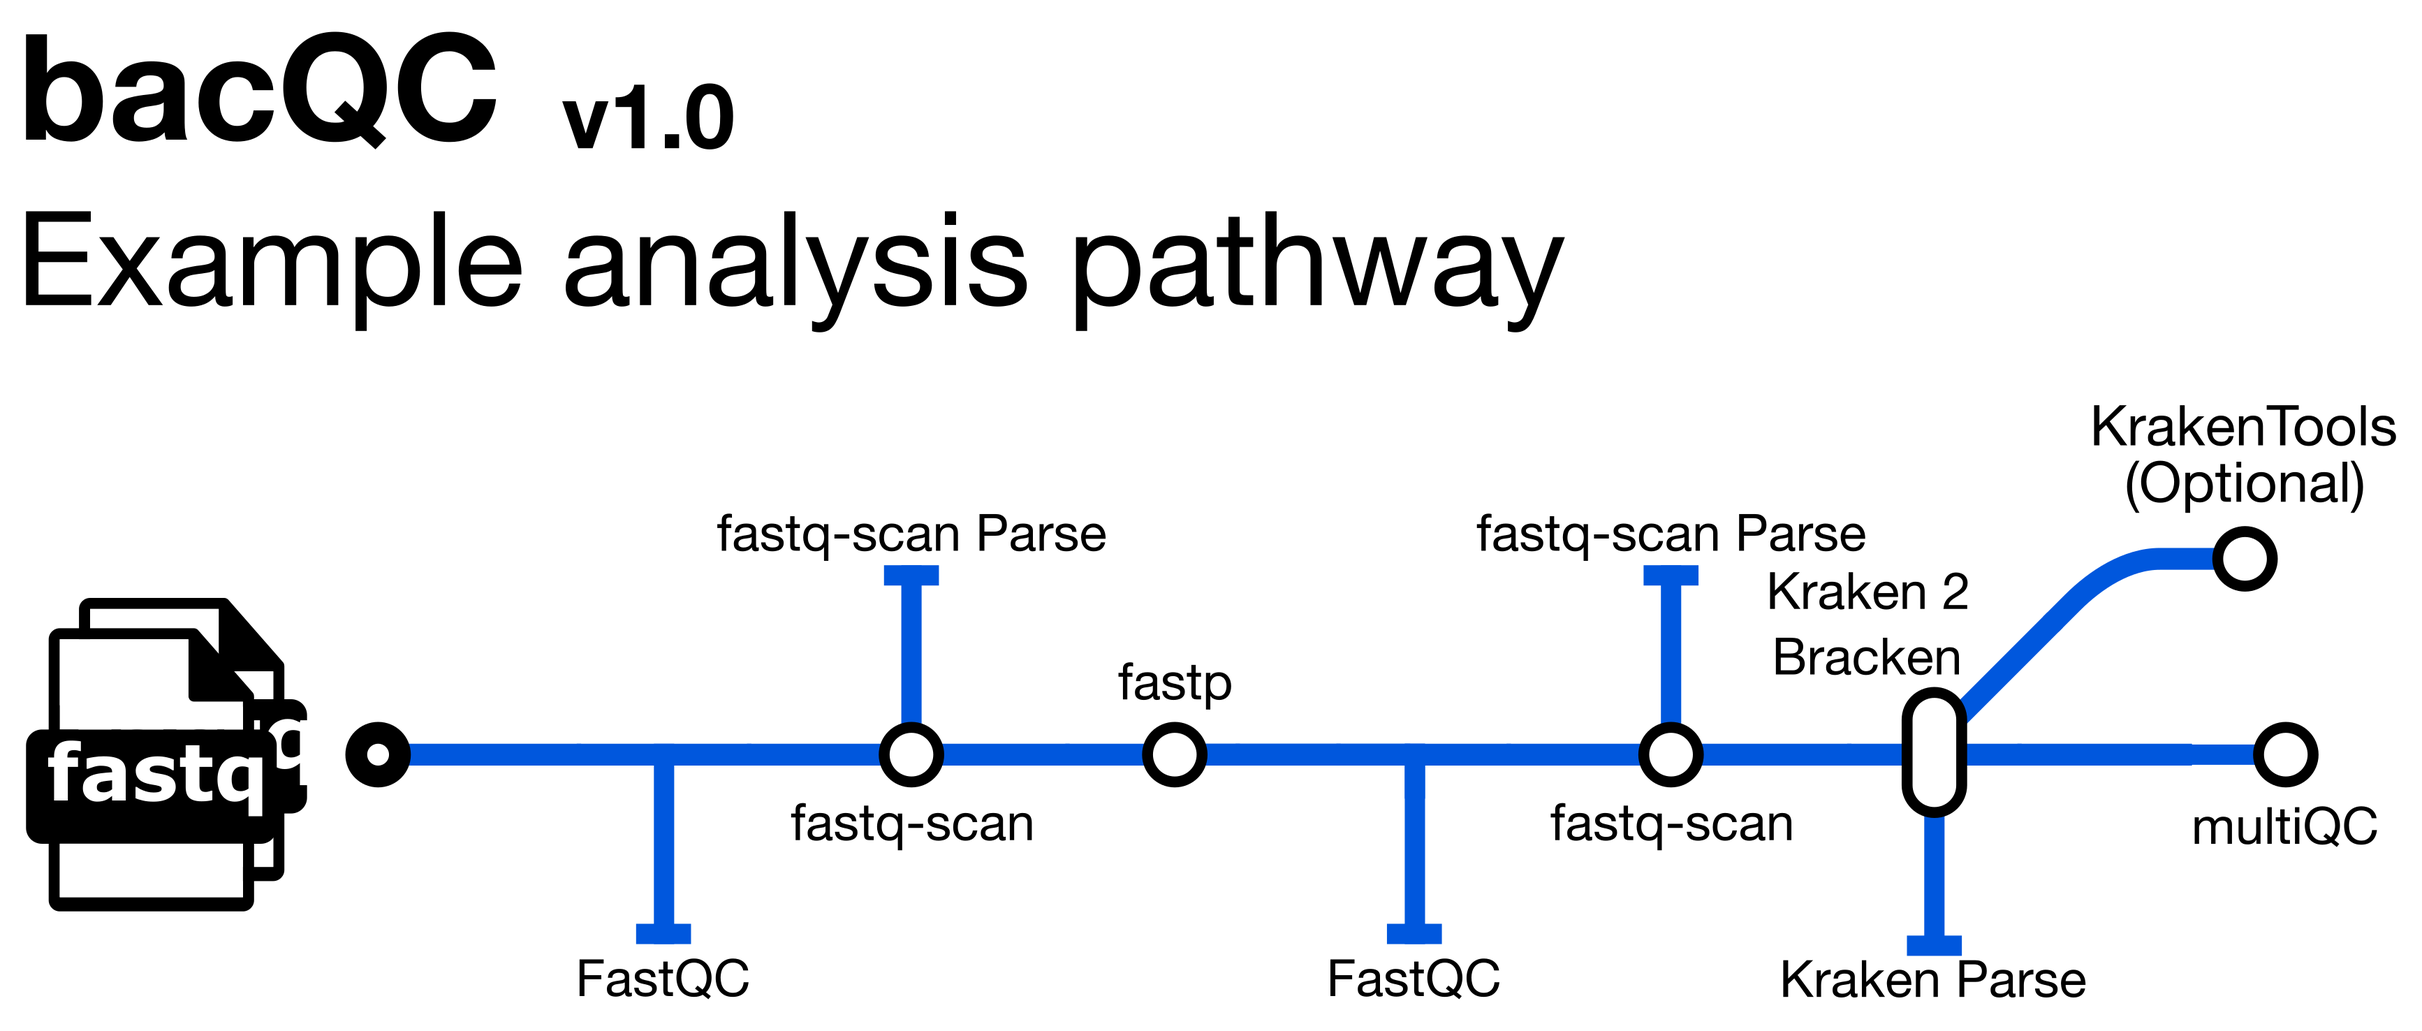
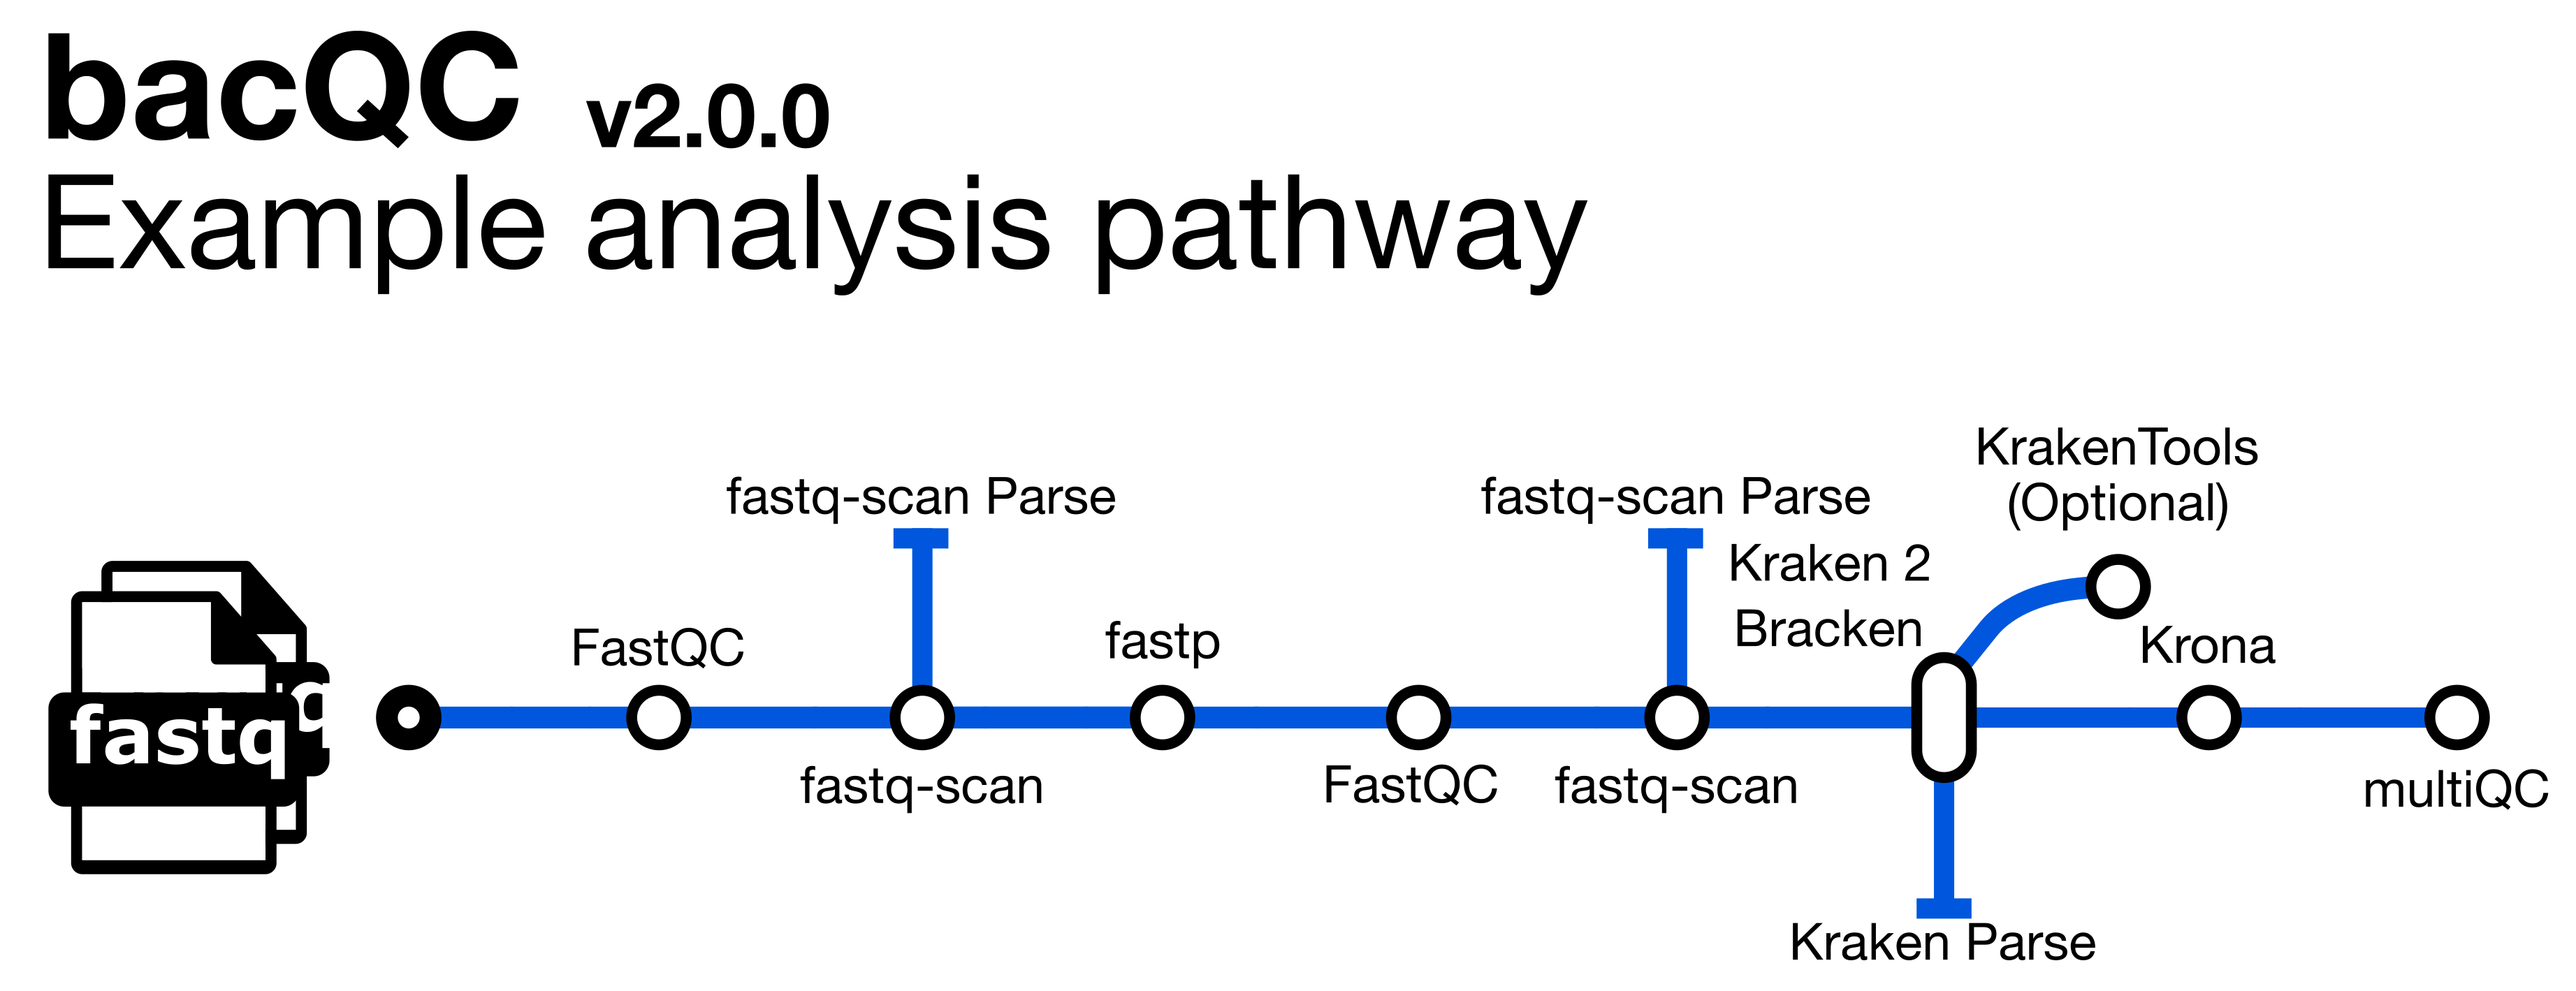
update to version 2.0.0

diff --git a/docs/parameters.md b/docs/parameters.md
@@ -8,35 +8,10 @@ Define where the pipeline should find input data and save output data.
 
 | Parameter | Description | Type | Default | Required | Hidden |
 |-----------|-----------|-----------|-----------|-----------|-----------|
-| `input` | Path to comma-separated file containing information about the samples in the experiment. <details><summary>Help</summary><small>You will need to create a design file with information about the samples in your experiment before running the pipeline. Use this parameter to specify its location. It has to be a comma-separated file with 3 columns, and a header row. </small></details>| `string` |  |  |  |
-| `kraken2db` | Path to Kraken 2 database | `string` | None |  |  |
-| `outdir` | The output directory where the results will be saved. You have to use absolute paths to storage on Cloud infrastructure. | `string` |  |  |  |
-| `email` | Email address for completion summary. <details><summary>Help</summary><small>Set this parameter to your e-mail address to get a summary e-mail with details of the run sent to you when the 
-workflow exits. If set in your user config file (`~/.nextflow/config`) then you don't need to specify this on the command line for every run.</small></details>| `string` |  |  |  |
+| `input` | Path to comma-separated file containing information about the samples in the experiment. <details><summary>Help</summary><small>You will need to create a design file with information about the samples in your experiment before running the pipeline. Use this parameter to specify its location. It has to be a comma-separated file with 3 columns, and a header row.</small></details>| `string` |  | True |  |
+| `outdir` | The output directory where the results will be saved. You have to use absolute paths to storage on Cloud infrastructure. | `string` |  | True |  |
+| `email` | Email address for completion summary. <details><summary>Help</summary><small>Set this parameter to your e-mail address to get a summary e-mail with details of the run sent to you when the workflow exits. If set in your user config file (`~/.nextflow/config`) then you don't need to specify this on the command line for every run.</small></details>| `string` |  |  |  |
 | `multiqc_title` | MultiQC report title. Printed as page header, used for filename if not otherwise specified. | `string` |  |  |  |
-
-## Quality Control options
-
-
-
-| Parameter | Description | Type | Default | Required | Hidden |
-|-----------|-----------|-----------|-----------|-----------|-----------|
-| `skip_fastp` | Skip the fastp trimming step. | `boolean` |  |  |  |
-| `skip_fastqc` | Skip the fastQC step. | `boolean` |  |  |  |
-| `save_trimmed_fail` | Save failed trimmed reads. | `boolean` |  |  |  |
-| `skip_multiqc` | Skip MultiQC. | `boolean` |  |  |  |
-| `adapter_file` | Path to file containing adapters in FASTA format. | `string` | '${baseDir}/assets/adapters.fas' |  |  |
-| `skip_kraken2` | Skip Kraken 2 and Bracken. | `boolean` |  |  |  |
-| `genome_size` | Specify a genome size to be used by fastq-scan to calculate coverage | `integer` |  |  |  |
-
-## Extract reads options
-
-
-
-| Parameter | Description | Type | Default | Required | Hidden |
-|-----------|-----------|-----------|-----------|-----------|-----------|
-| `kraken_extract` | Extract reads from fastq files based on taxon id | `boolean` |  |  |  |
-| `tax_id` | If --kraken_extract is used, --tax_is specifies the taxon id to be used to extract reads | `string` |  |  |  |
 
 ## Institutional config options
 
@@ -45,9 +20,7 @@ Parameters used to describe centralised config profiles. These should not be edi
 | Parameter | Description | Type | Default | Required | Hidden |
 |-----------|-----------|-----------|-----------|-----------|-----------|
 | `custom_config_version` | Git commit id for Institutional configs. | `string` | master |  | True |
-| `custom_config_base` | Base directory for Institutional configs. <details><summary>Help</summary><small>If you're running offline, Nextflow will not be able to fetch the institutional config files 
-from the internet. If you don't need them, then this is not a problem. If you do need them, you should download the files from the repo and tell Nextflow where to find them with this 
-parameter.</small></details>| `string` | https://raw.githubusercontent.com/nf-core/configs/master |  | True |
+| `custom_config_base` | Base directory for Institutional configs. <details><summary>Help</summary><small>If you're running offline, Nextflow will not be able to fetch the institutional config files from the internet. If you don't need them, then this is not a problem. If you do need them, you should download the files from the repo and tell Nextflow where to find them with this parameter.</small></details>| `string` | https://raw.githubusercontent.com/nf-core/configs/master |  | True |
 | `config_profile_name` | Institutional config name. | `string` |  |  | True |
 | `config_profile_description` | Institutional config description. | `string` |  |  | True |
 | `config_profile_contact` | Institutional config contact information. | `string` |  |  | True |
@@ -59,12 +32,9 @@ Set the top limit for requested resources for any single job.
 
 | Parameter | Description | Type | Default | Required | Hidden |
 |-----------|-----------|-----------|-----------|-----------|-----------|
-| `max_cpus` | Maximum number of CPUs that can be requested for any single job. <details><summary>Help</summary><small>Use to set an upper-limit for the CPU requirement for each process. Should be an 
-integer e.g. `--max_cpus 1`</small></details>| `integer` | 16 |  | True |
-| `max_memory` | Maximum amount of memory that can be requested for any single job. <details><summary>Help</summary><small>Use to set an upper-limit for the memory requirement for each process. Should 
-be a string in the format integer-unit e.g. `--max_memory '8.GB'`</small></details>| `string` | 128.GB |  | True |
-| `max_time` | Maximum amount of time that can be requested for any single job. <details><summary>Help</summary><small>Use to set an upper-limit for the time requirement for each process. Should be a 
-string in the format integer-unit e.g. `--max_time '2.h'`</small></details>| `string` | 240.h |  | True |
+| `max_cpus` | Maximum number of CPUs that can be requested for any single job. <details><summary>Help</summary><small>Use to set an upper-limit for the CPU requirement for each process. Should be an integer e.g. `--max_cpus 1`</small></details>| `integer` | 16 |  | True |
+| `max_memory` | Maximum amount of memory that can be requested for any single job. <details><summary>Help</summary><small>Use to set an upper-limit for the memory requirement for each process. Should be a string in the format integer-unit e.g. `--max_memory '8.GB'`</small></details>| `string` | 128.GB |  | True |
+| `max_time` | Maximum amount of time that can be requested for any single job. <details><summary>Help</summary><small>Use to set an upper-limit for the time requirement for each process. Should be a string in the format integer-unit e.g. `--max_time '2.h'`</small></details>| `string` | 240.h |  | True |
 
 ## Generic options
 
@@ -73,17 +43,59 @@ Less common options for the pipeline, typically set in a config file.
 | Parameter | Description | Type | Default | Required | Hidden |
 |-----------|-----------|-----------|-----------|-----------|-----------|
 | `help` | Display help text. | `boolean` |  |  | True |
-| `publish_dir_mode` | Method used to save pipeline results to output directory. <details><summary>Help</summary><small>The Nextflow `publishDir` option specifies which intermediate files should be 
-saved to the output directory. This option tells the pipeline what method should be used to move these files. See [Nextflow docs](https://www.nextflow.io/docs/latest/process.html#publishdir) for 
-details.</small></details>| `string` | copy |  | True |
-| `email_on_fail` | Email address for completion summary, only when pipeline fails. <details><summary>Help</summary><small>An email address to send a summary email to when the pipeline is completed - 
-ONLY sent if the pipeline does not exit successfully.</small></details>| `string` |  |  | True |
+| `version` | Display version and exit. | `boolean` |  |  | True |
+| `publish_dir_mode` | Method used to save pipeline results to output directory. <details><summary>Help</summary><small>The Nextflow `publishDir` option specifies which intermediate files should be saved to the output directory. This option tells the pipeline what method should be used to move these files. See [Nextflow docs](https://www.nextflow.io/docs/latest/process.html#publishdir) for details.</small></details>| `string` | copy |  | True |
+| `email_on_fail` | Email address for completion summary, only when pipeline fails. <details><summary>Help</summary><small>An email address to send a summary email to when the pipeline is completed - ONLY sent if the pipeline does not exit successfully.</small></details>| `string` |  |  | True |
 | `plaintext_email` | Send plain-text email instead of HTML. | `boolean` |  |  | True |
 | `max_multiqc_email_size` | File size limit when attaching MultiQC reports to summary emails. | `string` | 25.MB |  | True |
 | `monochrome_logs` | Do not use coloured log outputs. | `boolean` |  |  | True |
+| `hook_url` | Incoming hook URL for messaging service <details><summary>Help</summary><small>Incoming hook URL for messaging service. Currently, MS Teams and Slack are supported.</small></details>| `string` |  |  | True |
 | `multiqc_config` | Custom config file to supply to MultiQC. | `string` |  |  | True |
-| `tracedir` | Directory to keep pipeline Nextflow logs and reports. | `string` | ${params.outdir}/pipeline_info |  | True |
+| `multiqc_logo` | Custom logo file to supply to MultiQC. File name must also be set in the MultiQC config file | `string` |  |  | True |
+| `multiqc_methods_description` | Custom MultiQC yaml file containing HTML including a methods description. | `string` |  |  |  |
 | `validate_params` | Boolean whether to validate parameters against the schema at runtime | `boolean` | True |  | True |
-| `show_hidden_params` | Show all params when using `--help` <details><summary>Help</summary><small>By default, parameters set as _hidden_ in the schema are not shown on the command line when a user 
-runs with `--help`. Specifying this option will tell the pipeline to show all parameters.</small></details>| `boolean` |  |  | True |
-| `enable_conda` | Run this workflow with Conda. You can also use '-profile conda' instead of providing this parameter. | `boolean` |  |  | True |
+| `validationShowHiddenParams` | Show all params when using `--help` <details><summary>Help</summary><small>By default, parameters set as _hidden_ in the schema are not shown on the command line when a user runs with `--help`. Specifying this option will tell the pipeline to show all parameters.</small></details>| `boolean` |  |  | True |
+| `validationFailUnrecognisedParams` | Validation of parameters fails when an unrecognised parameter is found. <details><summary>Help</summary><small>By default, when an unrecognised parameter is found, it returns a warinig.</small></details>| `boolean` |  |  | True |
+| `validationLenientMode` | Validation of parameters in lenient more. <details><summary>Help</summary><small>Allows string values that are parseable as numbers or booleans. For further information see [JSONSchema docs](https://github.com/everit-org/json-schema#lenient-mode).</small></details>| `boolean` |  |  | True |
+| `pipelines_testdata_base_path` | Base URL or local path to location of pipeline test dataset files | `string` | https://raw.githubusercontent.com/nf-core/test-datasets/ |  |  |
+
+## FastQC/fastp options
+
+
+
+| Parameter | Description | Type | Default | Required | Hidden |
+|-----------|-----------|-----------|-----------|-----------|-----------|
+| `skip_fastqc` | Skip the fastQC step. | `boolean` |  |  |  |
+| `skip_fastp` | Skip the fastp trimming step. | `boolean` |  |  |  |
+| `adapter_fasta` | File in FASTA format containing possible adapters to remove. Accepted formats: *.{fasta,fna,fas,fa} | `string` | None |  |  |
+| `save_trimmed_fail` | Specify `true` to save files that failed to pass trimming thresholds ending in *.fail.fastq.gz | `boolean` |  |  |  |
+| `save_merged` | Specify true to save all merged reads to the a file ending in *.merged.fastq.gz | `boolean` |  |  |  |
+| `extra_fastp_args` | Extra arguments for fastp. For example, `--trim_front1 15 --trim_front2 15 --trim_tail1 5 --trim_tail2 5{:bash}` | `string` | None |  |  |
+
+## fastq-scan options
+
+
+
+| Parameter | Description | Type | Default | Required | Hidden |
+|-----------|-----------|-----------|-----------|-----------|-----------|
+| `genome_size` | Specify a genome size to be used by fastq-scan to calculate coverage | `integer` | 2000000 |  |  |
+
+## Kraken 2 options
+
+
+
+| Parameter | Description | Type | Default | Required | Hidden |
+|-----------|-----------|-----------|-----------|-----------|-----------|
+| `skip_kraken2` | Skip Kraken 2 and Bracken. | `boolean` |  |  |  |
+| `kraken2db` | Path to Kraken 2 database | `string` | None |  |  |
+| `save_output_fastqs` | Turn on saving of Kraken2-aligned reads | `boolean` |  |  |  |
+| `save_reads_assignment` | Turn on saving of Kraken2 per-read taxonomic assignment file | `boolean` | True |  |  |
+| `kraken_extract` | Extract reads from fastq files based on taxon id | `boolean` |  |  |  |
+
+## Krona options
+
+
+
+| Parameter | Description | Type | Default | Required | Hidden |
+|-----------|-----------|-----------|-----------|-----------|-----------|
+| `kronadb` | Path to Krona taxonomy file | `string` | None |  |  |

diff --git a/docs/usage.md b/docs/usage.md
@@ -52,6 +52,14 @@ The pipeline can be provided with a path to a Kraken 2 database which is used, a
 
 The Kraken 2 and Bracken steps can by skipped by specifying the `--skip_kraken2` parameter.
 
+## Krona taxonomy file
+
+The pipeline can be provided with a path to a Krona taxonomy file which creates HTML visualizations of the Bracken results. Use the `--kronadb` parameter to specify the location of the Krona taxonomy file:
+
+```console
+--kronadb '[path to Krona taxonomy file]'
+```
+
 ## Genome size
 
 The pipeline can be provided with a genome size which will be used by fastq-scan to calculate an approximate read coverage.  Use the `--genome size` parameter to specify the genome size of the species being analysed:
@@ -69,6 +77,7 @@ nextflow run avantonder/bacQC \
   --input samplesheet.csv \
   -profile singularity \
   --kraken2db path/to/kraken2/dir \
+  --kronadb path/to/kronataxonomy \
   --genome_size <ESTIMATED GENOME SIZE> \
   --outdir <OUTDIR> \
   -resume

diff --git a/docs/output.md b/docs/output.md
@@ -17,6 +17,7 @@ and processes data using the following steps:
 - [`Assign taxonomy to reads`](#assign-taxonomy-to-reads)
 - [`Re-estimate taxonomy`](#re-estimate-taxonomy)
 - [`Extract reads`](#extract-reads)
+- [`Visualize taxonomy`](#visualize-taxonomy)
 - [`Species composition`](#calculate-species-composition)
 - [`Sequencing statistics`](#sequencing-statistics)
 - [`MultiQC`](#multiqc) 
@@ -112,6 +113,18 @@ and processes data using the following steps:
 </details>
 
 [KrakenTools](https://github.com/jenniferlu717/KrakenTools) is a suite of scripts to be used for post-analysis of Kraken/KrakenUniq/Kraken2/Bracken results.
+
+### Visualize taxonomy
+
+<details markdown="1">
+<summary>Output files</summary>
+
+- `krona/`
+  - `*.html`: HTML files containing taxonomy visualizations
+
+</details>
+
+[Krona](https://pubmed.ncbi.nlm.nih.gov/21961884/) creates interactive metagenomic visualizations in a Web browser.
 
 ### Calculate species composition
 
